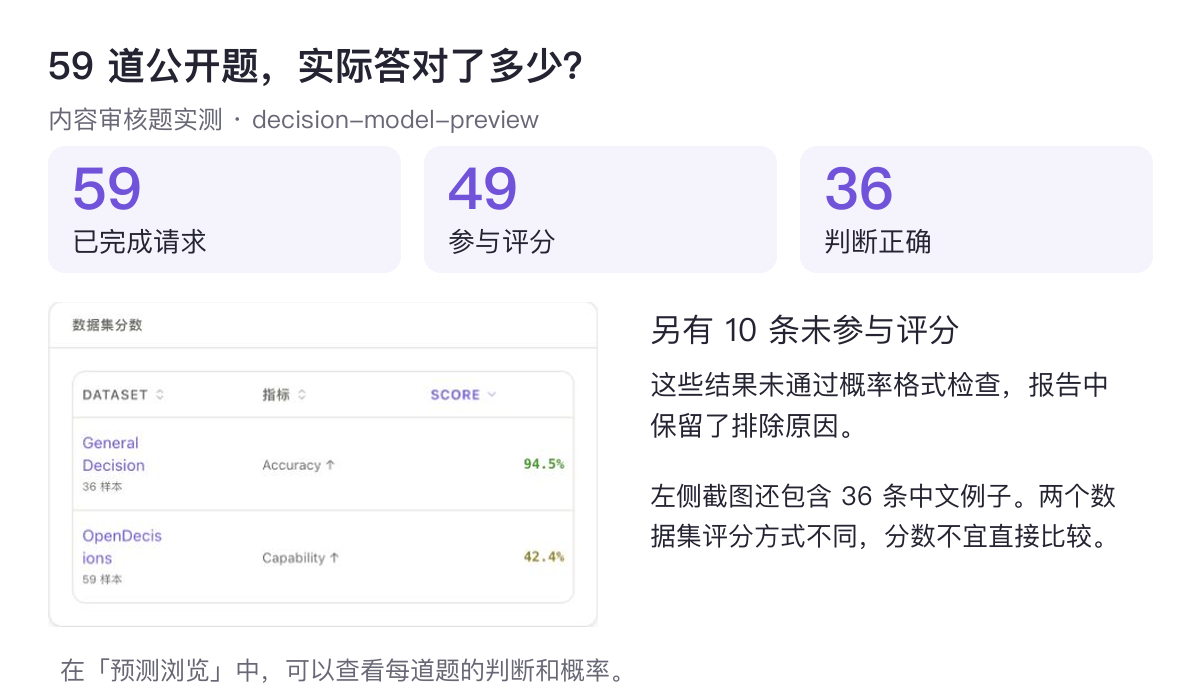
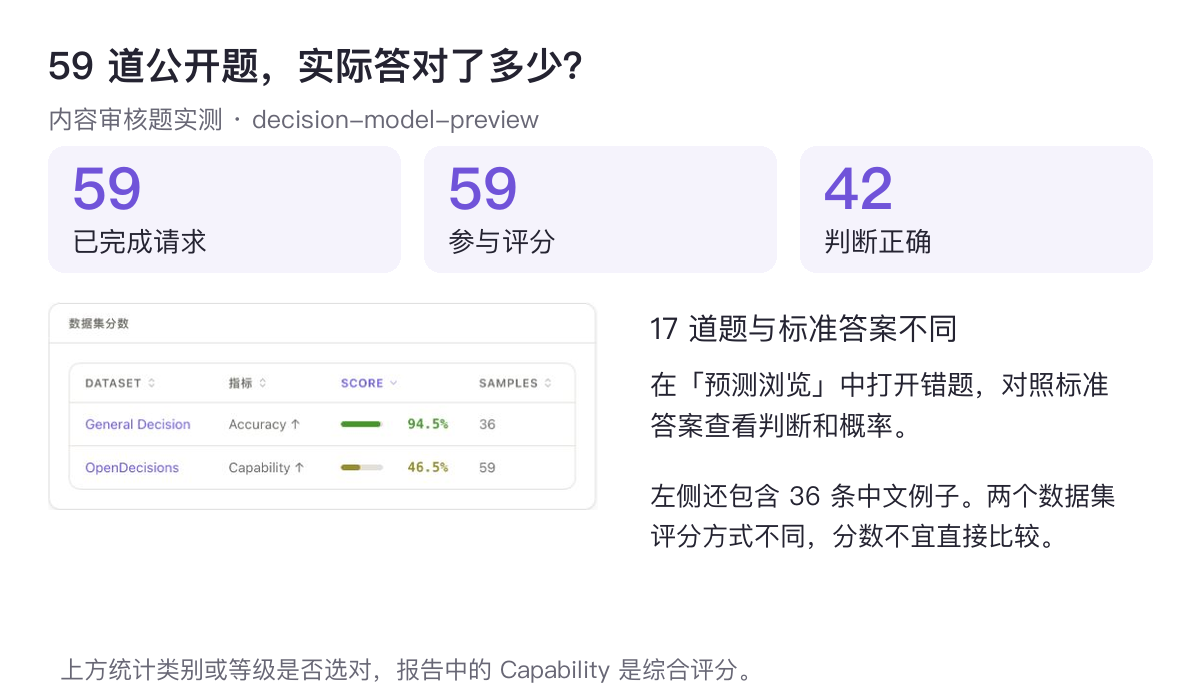
fix: accept rounded decision probabilities at the tolerance boundary

diff --git a/tests/models/test_decision.py b/tests/models/test_decision.py
@@ -424,6 +424,40 @@ def test_average_precision_is_defined_for_all_positive_gold() -> None:
     assert not any(s.metric_name == 'auroc' for s in aggregates)
 
 
+@pytest.mark.parametrize('kind,probabilities', [
+    ('choice', {'A': 0.92, 'B': 0.07}),
+    ('choice', {'A': 0.92, 'B': 0.09}),
+    ('score', {'0': 0.01, '1': 0.97, '2': 0.01, '3': 0.0}),
+    ('score', {'0': 0.68, '1': 0.15, '2': 0.16, '3': 0.02}),
+])
+def test_open_decisions_accepts_rounded_probability_boundary(kind: str, probabilities: dict[str, float]) -> None:
+    from evalscope.api.evaluator import TaskState
+    from evalscope.api.model import ModelOutput
+    from evalscope.benchmarks.open_decisions.utils import normalized
+    from evalscope.benchmarks.open_decisions.utils import score as official_score
+
+    adapter = get_benchmark('open_decisions', TaskConfig(model='test', eval_type='systemone_api', datasets=['open_decisions']))
+    q = question(kind)
+    selected = max(probabilities, key=probabilities.get)
+    task = {'id': 'rounded', 'state': q.state, 'question': build_systemone_request(q, 'test')['questions']['answer'],
+            'expected': selected, 'tier': 'hard', 'labels': q.labels}
+    sample = adapter.record_to_sample(task)
+    fields = {'choice': selected} if kind == 'choice' else {
+        'score': sum(int(label) * value for label, value in probabilities.items()),
+        'legend': dict(zip(q.labels, q.criteria)),
+    }
+    a = DecisionAnswer(type=kind, probabilities=probabilities, **fields)
+    output = ModelOutput.from_content('test', selected)
+    output.metadata = {'decision': a.model_dump()}
+    result = adapter.match_score(selected, selected, selected, TaskState(model='test', sample=sample, output=output))
+
+    assert result.value['acc'] == 1
+    assert result.metadata['decision']['raw_probabilities'] == probabilities
+    assert not result.metadata['probabilities_normalized_for_scoring']
+    assert normalized(task, probabilities) == probabilities
+    assert official_score([task], [{'id': 'rounded', 'probs': probabilities}])['predicted'] == 1
+
+
 def test_open_decisions_rejects_rounding_outside_official_tolerance() -> None:
     from evalscope.api.evaluator import TaskState
     from evalscope.api.metric import MetricUnavailableError

diff --git a/evalscope/benchmarks/open_decisions/open_decisions_adapter.py b/evalscope/benchmarks/open_decisions/open_decisions_adapter.py
@@ -4,6 +4,8 @@ from evalscope.api.metric import MetricSelector
 from evalscope.api.registry import register_benchmark
 from evalscope.constants import Tags
 
+from .utils import PROBABILITY_SUM_TOLERANCE
+
 
 @register_benchmark(
     BenchmarkMeta(
@@ -13,7 +15,7 @@ from evalscope.constants import Tags
         dataset_id='evalscope/OpenDecisions',
         eval_split='test',
         train_split=None,
-        evaluation_version='v1.0',
+        evaluation_version='v1.1',
         subset_list=['default'],
         metric_list=['capability'],
         primary_metric=MetricSelector(name='capability', aggregation='official'),
@@ -52,8 +54,8 @@ class OpenDecisionsAdapter(DecisionAdapter):
     """Evaluate OpenDecisions through a typed decision service."""
 
     aggregate_empty_scores = True
-    probability_sum_tolerance = 0.01
-    normalization_threshold = 0.01
+    probability_sum_tolerance = PROBABILITY_SUM_TOLERANCE
+    normalization_threshold = PROBABILITY_SUM_TOLERANCE
 
     def aggregate_subset(self, subset: str, sample_scores: list) -> list:
         """Score every requested task in this subset, including missing predictions."""

diff --git a/evalscope/benchmarks/open_decisions/utils.py b/evalscope/benchmarks/open_decisions/utils.py
@@ -32,6 +32,8 @@ from __future__ import annotations
 import math
 from collections import defaultdict
 
+# Keep the one-percent boundary inclusive despite binary floating-point rounding.
+PROBABILITY_SUM_TOLERANCE = 0.01 + 1e-12
 TIER_WEIGHTS = {'easy': 0.1, 'standard': 0.2, 'judge': 0.3, 'hard': 0.4}
 TYPES = ('choice', 'noul', 'score')
 
@@ -182,7 +184,7 @@ def normalized(task: dict, probs: dict) -> dict:
     values = {lab: float(probs.get(lab, 0.0)) for lab in labels}
     if any(not math.isfinite(v) or v < 0 for v in values.values()):
         raise ValueError(f'{task["id"]}: probabilities must be finite and non-negative')
-    if abs(sum(values.values()) - 1.0) > 0.01:
+    if abs(sum(values.values()) - 1.0) > PROBABILITY_SUM_TOLERANCE:
         raise ValueError(
             f'{task["id"]}: probabilities over the labels {labels} sum to {sum(values.values()):.4f}, not 1'
         )

diff --git a/docs/zh/best_practice/decision_evaluation.md b/docs/zh/best_practice/decision_evaluation.md
@@ -10,13 +10,13 @@
 
 ## 1. 决策模型能答哪三种题
 
-评论筛选只是引子。决策模型能回答的题，大致分三种。
+筛选评论只是决策模型的一种用法。消息分类、内容评分、判断两段文字是否相关，也都可以交给它。常见的题型有三种。
 
 先看一道真实的中文评论分类题，留言节选如下。
 
 > 在家动动手指日赚500+，刷单返现，宝妈学生都能做，名额有限先到先得！
 
-模型拿到的完整题目长这样：四个选项加上一条标准答案，返回的是 A/B/C/D 各自的概率。下图是这道题的原样（节选自 [OpenDecisions](https://modelscope.cn/datasets/evalscope/OpenDecisions) 公开原题）：
+题目包含四个选项，模型返回各选项的概率；标准答案留给 EvalScope 核对，不会发给模型。下图是这道题的原样（节选自 [OpenDecisions](https://modelscope.cn/datasets/evalscope/OpenDecisions) 公开原题）：
 
 ![评论分类题，包含 A、B、C、D 四个选项](../_static/images/decision_evaluation/public-question.png)
 
@@ -60,13 +60,13 @@ evalscope eval \
 evalscope service
 ```
 
-2026 年 10 月 16 日这次实测，我们从中筛了 59 道内容审核题来跑，全部返回了结果，但只有 49 条通过概率格式检查、进入准确率计算，其中 36 条答对。剩下 10 条是格式没过关，不是内容判断错，所以读分数先看参与评分的数量，别把这 10 条算成错题。报告页上方正好把这三个数摆了出来：已完成请求 59、参与评分 49、答对 36。
+我们选了 59 道内容审核题跑了一次实测，全部返回结果并参与评分，其中 42 道选中了正确类别或等级，另有 17 道与标准答案不一致。下面的图展示了这组结果；报告中的 Capability 是综合评分，和直接统计答对多少道题的含义不同。
 
 ![本次质量报告，以及公开题的请求数、有效评分数和正确数](../_static/images/decision_evaluation/quality-overview.png)
 
 截图左下是原始报告，里面还列着第 5 节那批中文例子；两个数据集评分方式不同，分数别直接比较。「预测浏览」能看每道题的题目、预测、标准答案和概率分布，也能筛错题。至于模型到底把哪些内容混淆了、那些概率又该怎么用，放到下面测自己数据的扩展里展开。
 
-## 4. 顺手测一下响应速度
+## 4. 响应速度同样重要
 
 自动分类和筛选要反复调用模型，等待时间同样影响体验。压测也不用自己整理数据——还是刚才那套公开题，数据集填 `open_decisions` 就会自动加载题目、逐条发给模型：
 
@@ -78,7 +78,7 @@ evalscope perf --api systemone --model "$DECISION_MODEL" \
   --outputs-dir ./perf-results
 ```
 
-这次只测短时响应：并发从 1 提到 4，吞吐翻了三倍多，p95 延迟只略微上涨，24 条请求全部成功。下图左侧是这次性能报告，右侧把两档并发摆在一起对比；p95 就是 95% 请求的延迟水平。要留意的是，测的只是接口往返，从页面打开到评论真正被折叠的那段前端时间不在其中。
+这次只测短时响应：并发从 1 提到 4，吞吐翻了三倍多，p95 延迟只略微上涨，24 条请求全部成功。下图左侧是这次性能报告，右侧把两档并发摆在一起对比；p95 就是 95% 请求的延迟水平。
 
 ![本次性能报告，以及两档并发的成功吞吐和 p95 延迟](../_static/images/decision_evaluation/performance-comparison.png)
 
